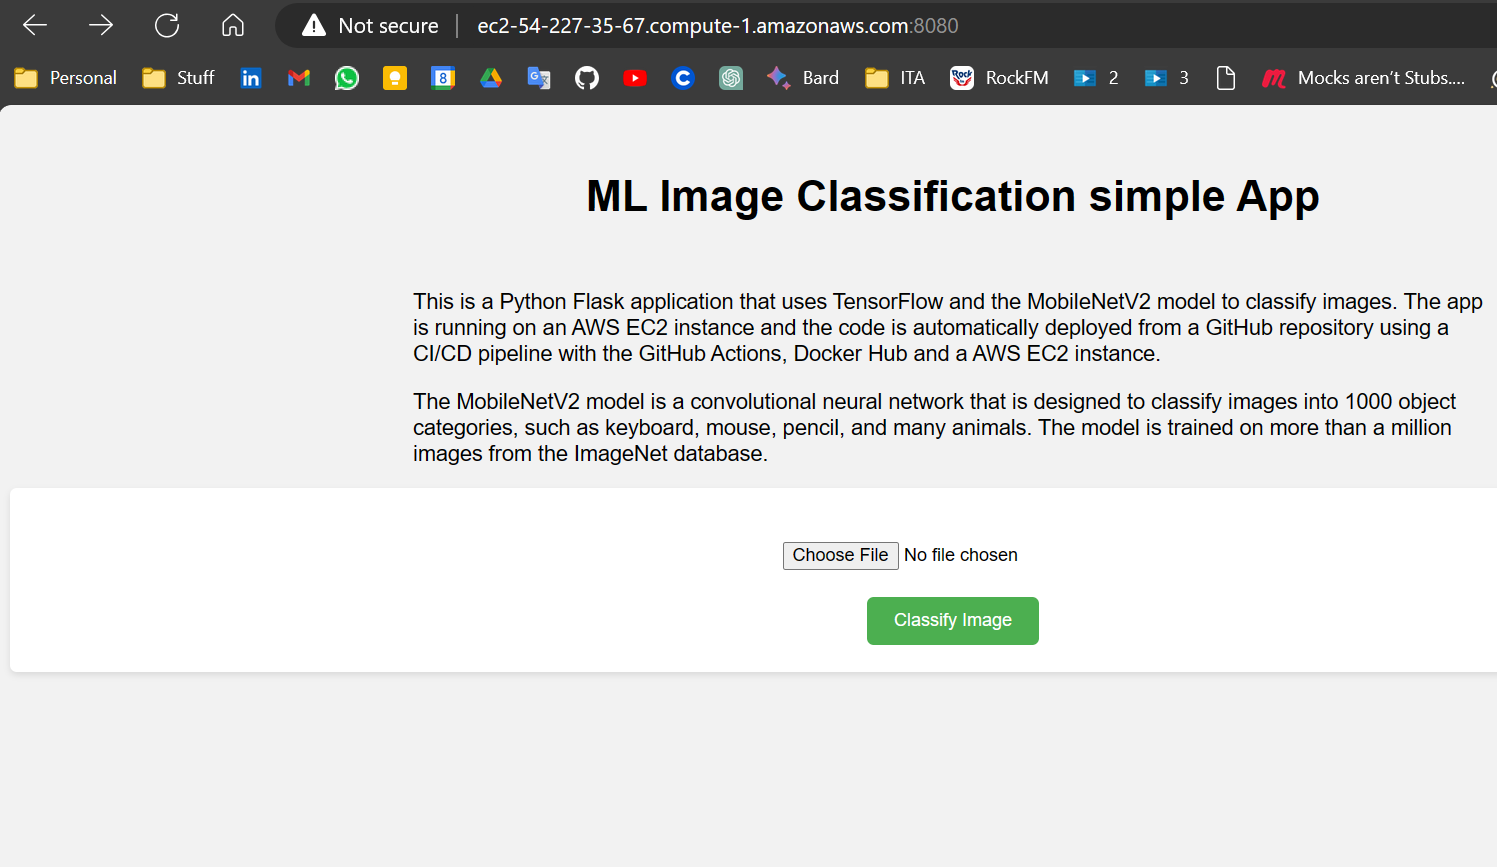
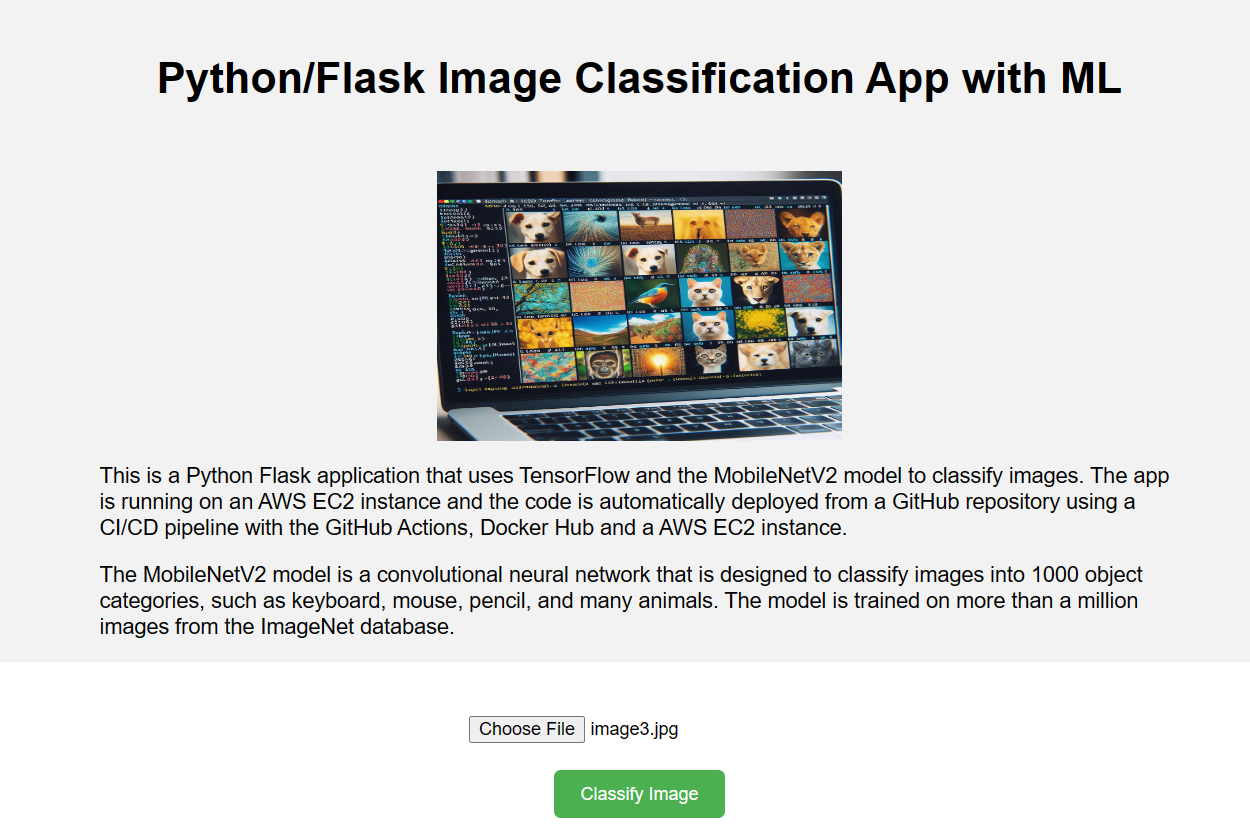
Fixing Landing page url and screeshot

Changed region(s): [[0.0624, 0.1864, 0.9984, 0.7766], [0.0, 0.0, 1.0, 0.1243], [0.3744, 0.8387, 0.5928, 0.994]]

diff --git a/README.md b/README.md
@@ -64,7 +64,7 @@ Validate that the workflows works properly:
 
 The last step is wait until the image is pulled and running in the EC2 Ubuntu instance and access the public URL to log into the landing page of the app:
 
-[Landing page on EC2 instance](http://ec2-54-227-35-67.compute-1.amazonaws.com:8080/)
+[Landing page on EC2 instance](http://ec2-52-23-199-2.compute-1.amazonaws.com:8080/)
 
 ![](https://github.com/matiaspakua/ml-demo-project/blob/9b3386851c91e22ca4bbfdb473904c94de1dbc81/images/ml_demo_landing_page.png)
 
